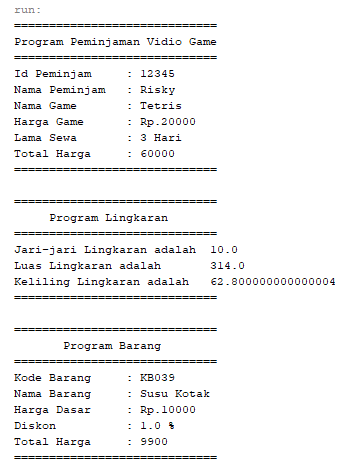
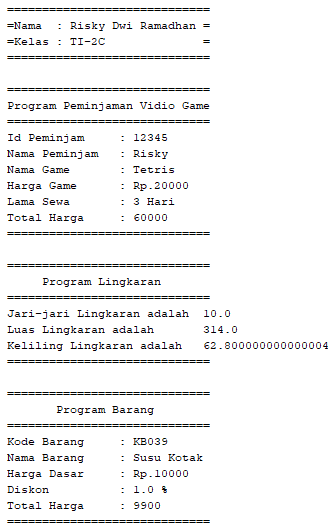
Pertemuan 2

Changed region(s): [[0.0, 0.0, 0.9821, 0.9957]]

diff --git a/Pertemuan 2/Tugas2/src/Percobaan/testPercobaan.java b/Pertemuan 2/Tugas2/src/Percobaan/testPercobaan.java
@@ -12,15 +12,28 @@ package Percobaan;
  */
 public class testPercobaan {
     public static void main(String[] args) {
+        
+        System.out.println("=============================");
+        System.out.println("Program Mahasiswa");
+        System.out.println("=============================");
         Mahasiswa mhs1 = new Mahasiswa();
         mhs1.nim = 101;
         mhs1.nama = "Lestari";
         mhs1.alamat = "Jl. Vinolia No. 1A";
         mhs1.kelas = "1A";
-        mhs1.tampiBiodata();
+        mhs1.tampiBiodata();        
+        System.out.println("=============================");
         
         
+        System.out.println("=============================");
+        System.out.println("Program Barang");
+        System.out.println("=============================");
         Barang brg = new Barang();
-        brg.jenisBrg
+        brg.namaBrg = "Pensil";
+        brg.jenisBrg = "ATK";
+        brg.stok = 10;
+        brg.tampilBarang();
+        System.out.println("Stok Baru Adalah "+brg.tambahBarang(20));
+        System.out.println("=============================");
     }
 }

diff --git a/Pertemuan 2/Tugas2/src/tugas2/TestProgram.java b/Pertemuan 2/Tugas2/src/tugas2/TestProgram.java
@@ -12,6 +12,14 @@ package tugas2;
  */
 public class TestProgram {
     public static void main(String[] args) {
+        
+
+        System.out.println("=============================");
+        System.out.println("=Nama  : Risky Dwi Ramadhan =");
+        System.out.println("=Kelas : TI-2C              =");
+        System.out.println("=============================");
+        System.out.println("");
+        
         //peminjaman
         Peminjaman p =new Peminjaman();
         System.out.println("=============================");
